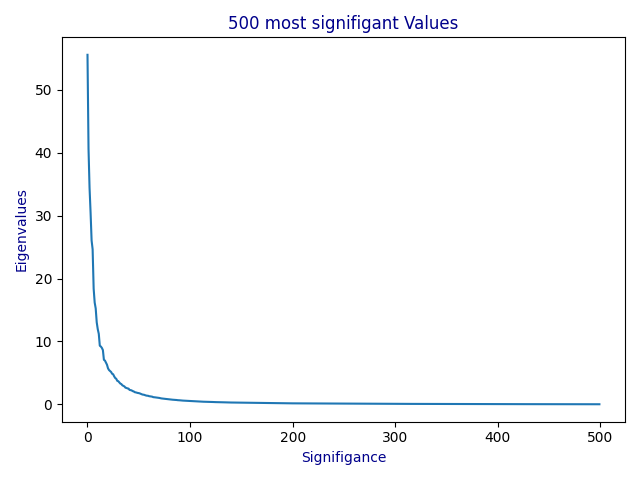
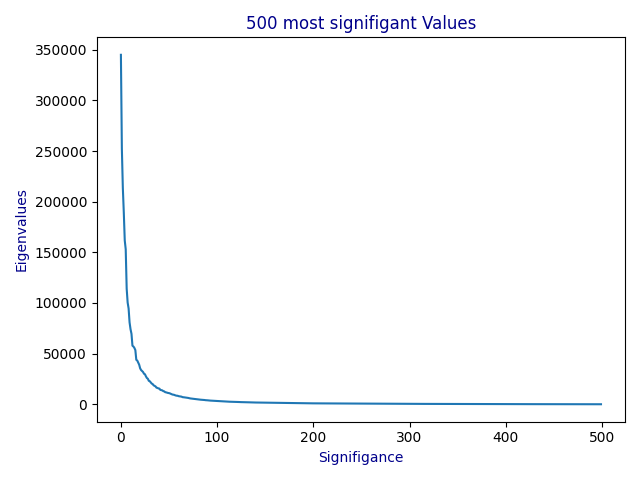
cghanged images

diff --git a/hw5/T5_P2.py b/hw5/T5_P2.py
@@ -30,8 +30,8 @@ def get_cumul_var(mnist_pics, num_leading_components=500):
             The variable representing k, the number of PCA components to use.
     """
     # Standardize
-    mnist_pics = (mnist_pics - np.mean(mnist_pics))/ np.std(mnist_pics)
-    # mnist_pics = (mnist_pics - np.mean(mnist_pics))
+    # mnist_pics = (mnist_pics - np.mean(mnist_pics))/ np.std(mnist_pics)
+    mnist_pics = (mnist_pics - np.mean(mnist_pics))
  
     S = np.cov(mnist_pics.T)
     values, vectors = np.linalg.eig(S)
@@ -74,7 +74,7 @@ def p2_1():
     print("Variance explained by the first 500 images:", cum_var[-1])
 
 def p2_2():
-    columns, rows = 2, 5
+    columns, rows = 5, 2
     
     # Plot mean value
     plt.figure()
@@ -84,7 +84,7 @@ def p2_2():
     plt.savefig("plots/2_2a.png")
     plt.show()
 
-    fig = plt.figure(figsize=(5, 11))
+    fig = plt.figure(figsize=(11, 5))
     plt.tight_layout()
     ax = []
     fig.suptitle("First 10 Principle Componenets")
